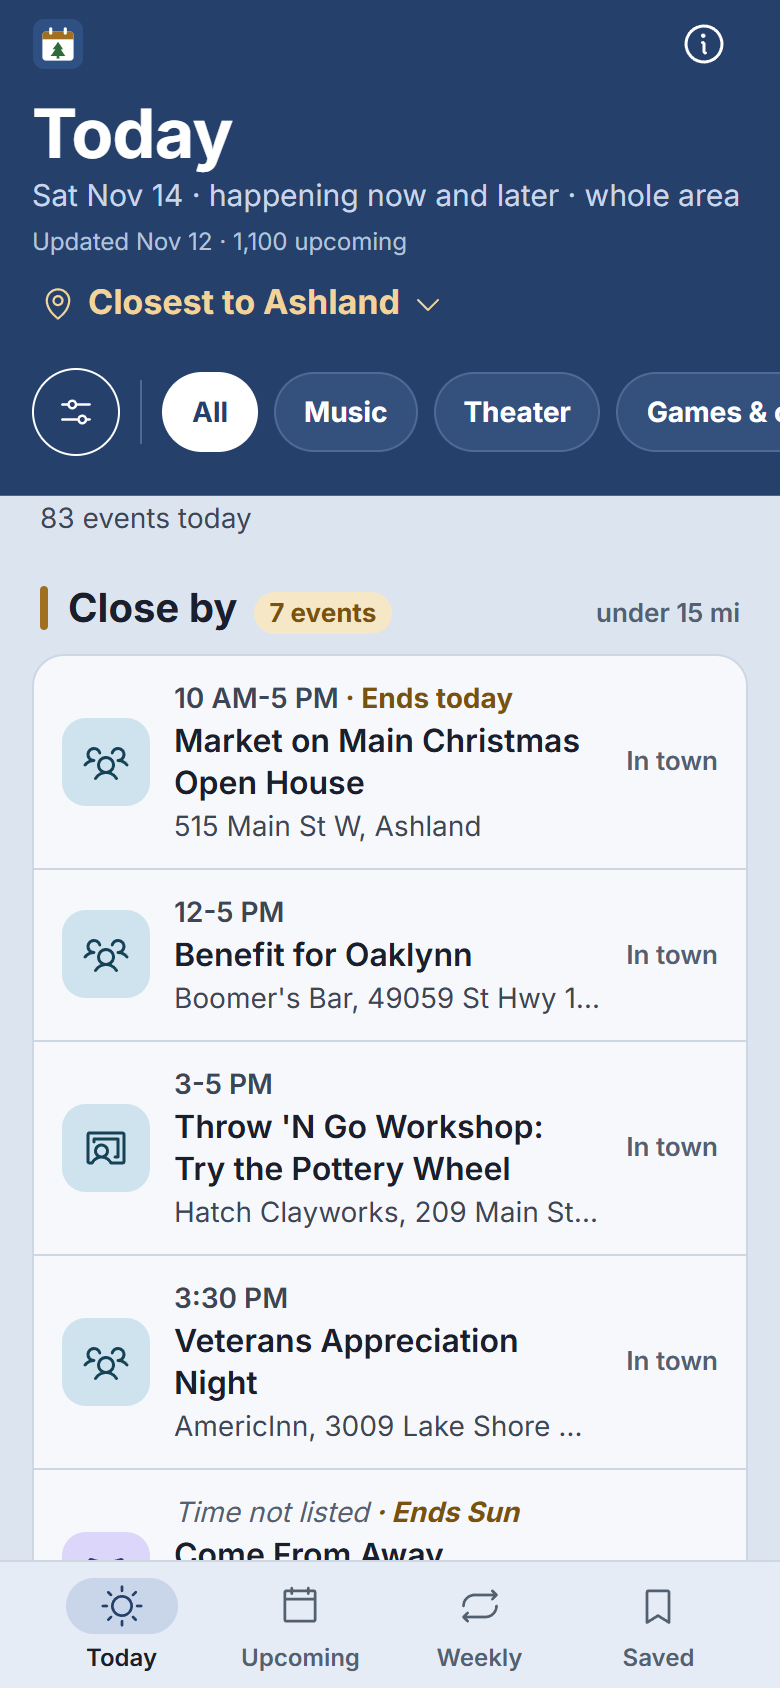
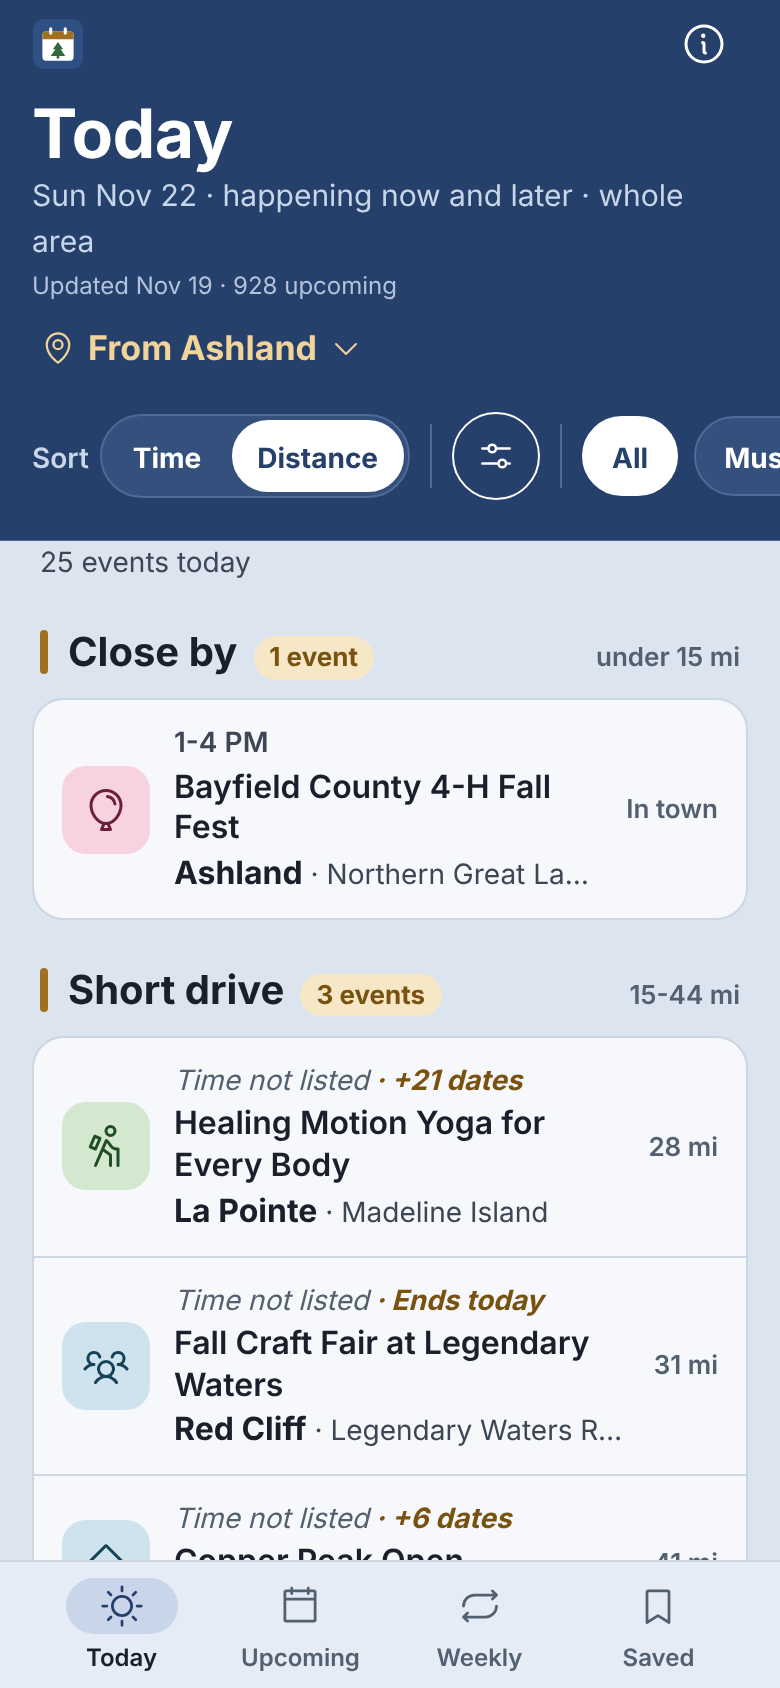
Larger town on event cards; Time | Distance sort on Today and Upcoming (#47)
* Larger town on event cards; Time | Distance sort on Today and Upcoming

Event rows now lead line 2 with the town in 1rem bold, then the venue, so the ellipsis never cuts the town. A Sort switch (Time | Distance) sits under the home-town button on Today (default Distance; Time groups Morning / Afternoon / Evening / Time not listed) and Upcoming (default Time; Distance uses the existing nearest-town view). Today writes sort=time with an explicit mode=today; Upcoming keeps sort=place. The Nearest first applied chip is gone, since the switch shows the sort. Render side and CSS only; the data region, HOMES and DRIVE are unchanged.

Claude-Session: https://claude.ai/code/session_01ADwB2BXZvgDYdCHHKc5tso

* Move sort switch to the kind row; Today by Time leads with what is still on

Review fixes for #47. The Time | Distance switch is now a segmented control at the start of the kind-chip row, so the header is no taller than main and the page never scrolls sideways at large text sizes. Today by Time groups Happening now, then Morning / Afternoon / Evening for later starts, then Started earlier, then Time not listed. Upcoming by Distance shows the venue only under each town header. CLAUDE.md corrected and the duplicate Upcoming bullet merged. Manifest screenshots re-rendered.

Claude-Session: https://claude.ai/code/session_01ADwB2BXZvgDYdCHHKc5tso

diff --git a/index.html b/index.html
@@ -135,6 +135,12 @@ a{color:inherit}
 .ctx{display:inline-flex;align-items:center;gap:6px;min-height:44px;padding:0 4px;border:0;background:none;font-size:1.0625rem;font-weight:700;color:var(--band-link);cursor:pointer;text-align:left}
 .ctx svg{width:18px;height:18px}
 .ctx svg:last-child{width:16px;height:16px}
+/* sort switch (Today, Upcoming): a segmented Time | Distance at the start of the kind row; the row scrolls, so it never widens the page */
+.sortsw{flex:0 0 auto;display:inline-flex;align-items:center;gap:6px}
+.sortsw .lbl{font-size:.875rem;font-weight:600;color:var(--band-sub)}
+.seg{display:inline-flex;gap:2px;padding:2px;border:1px solid var(--band-line);border-radius:var(--r-pill);background:var(--band-chip)}
+.seg .chip{min-height:36px;padding:0 12px;border-color:transparent;background:none}
+.seg .chip[aria-pressed="true"]{background:var(--on-band);border-color:var(--on-band);color:var(--band)}
 .srch{display:flex;align-items:center;gap:8px;min-height:44px;padding:0 12px;margin-top:6px;background:var(--band-field);border:1px solid var(--band-field-line);border-radius:var(--r-md);box-shadow:0 0 0 100vmax var(--band);clip-path:inset(-8px -100vmax)}
 .srch svg{width:18px;height:18px;color:var(--on-surface-variant)}
 .srch input{flex:1 1 auto;min-width:0;min-height:42px;border:0;outline:0;background:none;font-size:max(16px,1rem)}
@@ -200,6 +206,7 @@ a{color:inherit}
 .t1.un{font-style:italic;font-weight:400;color:var(--on-surface-variant)}
 .ev .t{display:-webkit-box;-webkit-line-clamp:2;-webkit-box-orient:vertical;overflow:hidden;font-size:1rem;font-weight:600;line-height:1.3;color:var(--on-surface);overflow-wrap:anywhere}
 .ev .meta2{font-size:.875rem;line-height:1.3;color:var(--on-surface-muted);white-space:nowrap;overflow:hidden;text-overflow:ellipsis}
+.ev .twn{font-size:1rem;font-weight:700;color:var(--on-surface)}
 .ev .nt{display:-webkit-box;-webkit-line-clamp:2;-webkit-box-orient:vertical;overflow:hidden;font-size:.8125rem;line-height:1.3;color:var(--on-surface-variant);overflow-wrap:anywhere}
 .ev .mi{flex:0 0 auto;max-width:5.5em;text-align:right;font-size:.8125rem;font-weight:600;color:var(--on-surface-variant)}
 .fam-music{background:var(--fam-music);color:var(--on-fam-music)}
@@ -2056,7 +2063,7 @@ const WHENS=[["today","Today"],["weekend","This weekend"],["7","Next 7 days"],["
 const WHEN=Object.fromEntries(WHENS);
 const DISTS=[25,60,120,250];
 const own=(o,k)=>k!=null&&Object.prototype.hasOwnProperty.call(o,k);
-// URL keys: mode (Today is the default and is left out; mode=tonight is an old alias for it), day (Weekly), sort, when, cat, dist, town, q (Upcoming), ev. Defaults are left out.
+// URL keys: mode (Today is the default and is left out; mode=tonight is an old alias for it), day (Weekly), sort (Today: time; Upcoming: place), when, cat, dist, town, q (Upcoming), ev. Defaults are left out.
 // Never "from": a shared My location link would ask for location on load.
 // Categories: S.cat holds the ticked ones as one string (CATMETA order, newline-joined), so views compare as values.
 const CATORDER=Object.keys(CATMETA);
@@ -2079,13 +2086,13 @@ function readURL(search){
   // No mode = Today (mode=tonight is read as today). An old link (no mode, but any of when / sort / cat / dist / town / q) opens Upcoming with those applied.
   const legacy=!MODES.includes(md)&&LEGACY.some(k=>p.has(k));
   const mode=MODES.includes(md)?md:legacy?"upcoming":"today";
-  return {mode,sort:p.get("sort")==="place"?"place":"date",when:own(WHEN,w)||isDate(w)?w:(legacy?"7":"all"),
+  return {mode,sort:p.get("sort")==="place"?"place":"date",tsort:mode==="today"&&p.get("sort")==="time"?"time":"place",when:own(WHEN,w)||isDate(w)?w:(legacy?"7":"all"),
     cat:catKey(p.getAll("cat").filter(c=>own(CATMETA,c)&&(MB||c!=="My Bands"))),dist:DISTS.includes(d)?d:0,town:own(TOWNS,tn)?tn:"",q:(p.get("q")||"").trim(),
     day:WD.includes(dy)||dy==="Other"?dy:"",ev:p.get("ev")||""};
 }
 const U0=readURL(location.search);
 // q: lower-cased for matching; qt: the text as typed, for the URL and the search box.
-const S={mode:U0.mode,sort:U0.sort,when:U0.when,cat:U0.cat,dist:U0.dist,town:U0.town,q:U0.q.toLowerCase(),qt:U0.q,day:U0.day};
+const S={mode:U0.mode,sort:U0.sort,tsort:U0.tsort,when:U0.when,cat:U0.cat,dist:U0.dist,town:U0.town,q:U0.q.toLowerCase(),qt:U0.q,day:U0.day};
 const byPlace=()=>S.sort==="place";
 function range(){
   if(isDate(S.when)){const d=pd(S.when);return[d,d];}
@@ -2171,23 +2178,27 @@ function noteFor(e,d){
   if(e.end&&e.end!==e.start){const a=pd(e.start),b=lastDay(e);return Math.round((b-a)/864e5)<=6?`${DOW[a.getDay()]}-${DOW[b.getDay()]}`:thru(b);}
   return "";
 }
-// --- the row: category tile, time (bold primary) or italic "Time not listed", title (2 lines), "venue, town", drive miles on the right ---
+// --- the row: category tile, time (bold primary) or italic "Time not listed", title (2 lines), "Town · venue", drive miles on the right ---
 const t1HTML=(time,extra,id)=>{const x=extra?`<span class="x"> · ${esc(extra)}</span>`:"";return time?`<span class="t1" id="${id}">${esc(time)}${x}</span>`:`<span class="t1 un" id="${id}">Time not listed${x}</span>`;};
 const plainT1=(txt,id)=>`<span class="t1" id="${id}">${esc(txt)}</span>`;
-function whereText(o){
-  if(!o.town)return o.place||"";
-  const v=venue(o),t=townName(o);return v?`${v}, ${t}`:t;
+// Line 2: the town (larger, bold) first, then the venue, so at normal text size the ellipsis cuts the venue, not the town.
+// underTown: the row sits under a header that already names its town (Upcoming by Distance), so show the venue only
+// (nothing, when the place is just the town).
+function whereHTML(o,underTown){
+  if(!o.town)return esc(o.place||"");
+  const v=venue(o);if(underTown)return esc(v);
+  return `<span class="twn">${esc(townName(o))}</span>${v?` · ${esc(v)}`:""}`;
 }
 // One row button; its name reads time, title, place, distance.
-function evRow(o,id,t1,note){
+function evRow(o,id,t1,note,underTown){
   const mi=distPiece(o);
   const lab=[id+"-1",id+"-t",id+"-m",mi&&id+"-d"].filter(Boolean).join(" ");
-  return `<button type="button" class="ev" data-ev="${id}" aria-haspopup="dialog" aria-labelledby="${lab}">${iconTile(o.cat)}<span class="body">${t1}<span class="t" id="${id}-t">${esc(o.title)}</span><span class="meta2" id="${id}-m">${esc(whereText(o))}</span>${note?`<span class="nt">${esc(note)}</span>`:""}</span>${mi?`<span class="mi" id="${id}-d">${esc(mi)}</span>`:""}</button>`;
+  return `<button type="button" class="ev" data-ev="${id}" aria-haspopup="dialog" aria-labelledby="${lab}">${iconTile(o.cat)}<span class="body">${t1}<span class="t" id="${id}-t">${esc(o.title)}</span><span class="meta2" id="${id}-m">${whereHTML(o,underTown)}</span>${note?`<span class="nt">${esc(note)}</span>`:""}</span>${mi?`<span class="mi" id="${id}-d">${esc(mi)}</span>`:""}</button>`;
 }
 // ctx: "date" (day groups) or "near" (under a town header: date first)
 function row(e,d,ctx){
   const id=IDOF.get(e);
-  if(ctx==="near")return evRow(e,id,plainT1([isOngoing(e)?"Ongoing":shortD(d),timeOf(e)].filter(Boolean).join(" · "),id+"-1"));
+  if(ctx==="near")return evRow(e,id,plainT1([isOngoing(e)?"Ongoing":shortD(d),timeOf(e)].filter(Boolean).join(" · "),id+"-1"),"",true);
   return evRow(e,id,t1HTML(timeOf(e),noteFor(e,d),id+"-1"));
 }
 const rowRun=e=>{const id=IDOF.get(e),t=timeOf(e);return evRow(e,id,plainT1(thru(lastDay(e))+(t?` · ${t} daily`:""),id+"-1"));};
@@ -2221,6 +2232,22 @@ function viewToday(list){
   const arr=list.map(e=>({e,m:miOf(e)})).sort((a,b)=>(a.m??9999)-(b.m??9999)||tMin(a.e)-tMin(b.e)||a.e.title.localeCompare(b.e.title));
   return {pre:"",items:arr,ongoing:0,key:x=>bandOf(x.m),label:x=>BANDS[bandOf(x.m)][0],sub:x=>BANDS[bandOf(x.m)][1],row:x=>row(x.e,today,"date")};
 }
+// Today sorted by time, so what a reader can still get to comes first:
+// 0 Happening now - started, and its end time is still ahead (todayOk already dropped any that ended);
+// 1-3 Morning / Afternoon / Evening - starts later today, soonest first;
+// 4 Started earlier - a start-only time already past: the source gives no end, so it may be over (latest start first);
+// 5 Time not listed. Nearest first within a start time.
+const TGROUPS=[["Happening now","started, still on"],["Morning","starts before noon"],["Afternoon","starts noon to 5 pm"],["Evening","starts 5 pm or later"],["Started earlier","no end time listed"],["Time not listed",""]];
+function tGroup(e){
+  const t=parseTime(e.time);if(!t)return 5;
+  const a=t.a[0]*60+t.a[1];
+  if(a>NOWMIN)return a<720?1:a<1020?2:3;
+  return t.b?0:4;
+}
+function viewTodayTime(list){
+  const arr=list.map(e=>({e,g:tGroup(e),t:tMin(e),m:miOf(e)})).sort((a,b)=>a.g-b.g||(a.g===4?b.t-a.t:a.t-b.t)||(a.m??9999)-(b.m??9999)||a.e.title.localeCompare(b.e.title));
+  return {pre:"",items:arr,ongoing:0,key:x=>x.g,label:x=>TGROUPS[x.g][0],sub:x=>TGROUPS[x.g][1],row:x=>row(x.e,today,"date")};
+}
 const weeklyTodayN=()=>weeklyList(DOW[today.getDay()],false).length;
 
 // --- Upcoming: from today on, a day list; runs over 14 days that are still going wait in "Running now" ---
@@ -2236,7 +2263,7 @@ function viewUp(list){
     label:x=>{const n=daysFrom(x.d);return n===0?"Today":n===1?"Tomorrow":DOWF[x.d.getDay()];},
     sub:x=>`${DOW[x.d.getDay()]}, ${MON[x.d.getMonth()]} ${x.d.getDate()}`};
 }
-// old ?sort=place links: nearest town first
+// Upcoming sorted by distance (sort=place): nearest town first
 function viewPlace(list){
   const r=range();
   const arr=list.map(e=>({e,d:firstIn(e,r)})).sort((a,b)=>(miOf(a.e)??9999)-(miOf(b.e)??9999)||(a.e.town||"~").localeCompare(b.e.town||"~")||(isOngoing(a.e)?1:0)-(isOngoing(b.e)?1:0)||a.d-b.d);
@@ -2263,10 +2290,14 @@ function groupsHTML(items){
 
 // --- head: large title, subtitle, context buttons, search, kind row, date strip / weekday chips ---
 const TITLES={today:"Today",upcoming:"Upcoming",weekly:"Weekly",saved:"Saved"};
+// Sort switch: Today defaults to Distance (tsort), Upcoming to Time (sort).
+const nearOn=()=>S.mode==="today"?S.tsort==="place":byPlace();
+const sortSw=()=>{const n=nearOn();return `<span class="sortsw" role="group" aria-label="Sort by"><span class="lbl" aria-hidden="true">Sort</span><span class="seg"><button class="chip" type="button" data-sort="time" aria-pressed="${!n}">Time</button><button class="chip" type="button" data-sort="near" aria-pressed="${n}">Distance</button></span></span><span class="vsep" aria-hidden="true"></span>`;};
+function setSort(near){if(S.mode==="today")refine({tsort:near?"place":"time"});else refine({sort:near?"place":"date"});}
 const ctxBtn=(open,ic,label)=>`<button class="ctx" type="button" data-open="${open}" aria-haspopup="dialog">${icon(ic)}${esc(label)}${icon("caret-down")}</button>`;
 function kindChips(){
   const gs=kgroups(),n=gs.filter(kon).length;
-  return `<button class="fbtn" type="button" data-open="kinds" aria-haspopup="dialog" aria-label="Filter by kind of event" aria-pressed="${n>0}">${icon("sliders-horizontal")}${n?`<span class="fbadge" aria-hidden="true">${n}</span>`:""}</button><span class="vsep" aria-hidden="true"></span>`+
+  return sortSw()+`<button class="fbtn" type="button" data-open="kinds" aria-haspopup="dialog" aria-label="Filter by kind of event" aria-pressed="${n>0}">${icon("sliders-horizontal")}${n?`<span class="fbadge" aria-hidden="true">${n}</span>`:""}</button><span class="vsep" aria-hidden="true"></span>`+
     `<button class="chip" type="button" data-gall aria-pressed="${n===0}">All</button>`+gs.map(g=>`<button class="chip" type="button" data-grp="${esc(g.n)}" aria-pressed="${kon(g)}">${esc(g.n)}</button>`).join("");
 }
 const STRIPN=14;
@@ -2282,7 +2313,7 @@ const stripWk=()=>[...WD,"Other"].map(d=>`<button class="chip" type="button" dat
 function put(el,html){if(el._h===html)return false;el._h=html;el.innerHTML=html;return true;}
 function fkey(el){
   if(!el||!el.closest)return null;const c=el.closest("#kinds,#strip,#ctxrow");if(!c)return null;
-  for(const k of ["grp","gall","open","wd","day"])if(el.dataset[k]!==undefined)return `#${c.id} [data-${k.replace(/[A-Z]/g,m=>"-"+m.toLowerCase())}${el.dataset[k]===""?"":`="${CSS.escape(el.dataset[k])}"`}]`;
+  for(const k of ["grp","gall","open","wd","day","sort"])if(el.dataset[k]!==undefined)return `#${c.id} [data-${k.replace(/[A-Z]/g,m=>"-"+m.toLowerCase())}${el.dataset[k]===""?"":`="${CSS.escape(el.dataset[k])}"`}]`;
   return null;
 }
 function renderHead(){
@@ -2291,7 +2322,7 @@ function renderHead(){
   const rl=regionLabel();
   $("#subl").textContent=m==="today"?`${shortD(today)} · happening now and later · whole area`:m==="upcoming"?`${shortD(today)} and later · ${rl}`:m==="weekly"?`Repeating events · ${rl}`:"Saved on this device";
   const hn=homeName(HOME||FALLBACK_HOME);
-  put($("#ctxrow"),m==="today"?ctxBtn("home","map-pin",`Closest to ${hn}`):m==="upcoming"?ctxBtn("regions","map-trifold",rl)+ctxBtn("home","map-pin",`From ${hn}`):m==="weekly"?ctxBtn("regions","map-trifold",rl):"");
+  put($("#ctxrow"),m==="today"?ctxBtn("home","map-pin",`From ${hn}`):m==="upcoming"?ctxBtn("regions","map-trifold",rl)+ctxBtn("home","map-pin",`From ${hn}`):m==="weekly"?ctxBtn("regions","map-trifold",rl):"");
   $("#srchWrap").hidden=m!=="upcoming";
   const kd=$("#kinds");kd.hidden=!(m==="today"||m==="upcoming");if(!kd.hidden)put(kd,kindChips());
   const sp=$("#strip"),dated=m==="upcoming"&&!byPlace();sp.hidden=!(dated||m==="weekly");
@@ -2339,7 +2370,7 @@ function render(opts){
   document.documentElement.dataset.view=S.mode;setTabs(S.mode);const gen=++GEN;
   renderHead();renderApplied();
   if(S.mode==="saved"){renderSaved();return gen;}
-  V=S.mode==="today"?viewToday(todayList()):S.mode==="weekly"?viewWeekly():byPlace()?viewPlace(poolUp()):viewUp(poolUp());
+  V=S.mode==="today"?(S.tsort==="time"?viewTodayTime:viewToday)(todayList()):S.mode==="weekly"?viewWeekly():byPlace()?viewPlace(poolUp()):viewUp(poolUp());
   // group counts come from the full list, so a header is right before its rows arrive
   V.count={};V.items.forEach(x=>{const k=V.key(x);V.count[k]=(V.count[k]||0)+1;});
   V.shown=Math.min(FIRST,V.items.length);
@@ -2473,6 +2504,7 @@ document.addEventListener("click",ev=>{
   if(b.hasAttribute("data-golink")){const d=DOW[today.getDay()];if(go({mode:"weekly",day:d}))withTabTransition(o=>{const g=render({...o,keep:true});scrollTo(0,0);return g;});return;}
   if(b.dataset.grp!==undefined){toggleGroup(b.dataset.grp);renderHead();renderSoon();return;}
   if(b.hasAttribute("data-gall")){refine({cat:""});renderHead();renderSoon();return;}
+  if(b.dataset.sort){setSort(b.dataset.sort==="near");renderHead();renderSoon();return;}
   if(b.dataset.wd){refine({day:b.dataset.wd===DOW[today.getDay()]?"":b.dataset.wd});renderHead();renderSoon();return;}
   if(b.classList.contains("day")&&b.dataset.day){jumpToDay(b.dataset.day);return;}
 });
@@ -2538,10 +2570,10 @@ function armMidnight(){const n=new Date(),m=new Date(n.getFullYear(),n.getMonth(
 armMidnight();
 
 // --- history: go() pushes destinations, refine() replaces; render() only ever replaces ---
-const VIEWKEYS=["mode","sort","when","cat","dist","town","q","day"];
-const DEF={mode:"today",sort:"date",when:"all",cat:"",dist:0,town:"",q:"",day:""};
-// Which keys a view writes to the URL. Today writes cat only together with an explicit mode=today (urlFor): a bare cat= reads as an old link and opens Upcoming.
-const URLKEYS={today:["cat"],upcoming:["sort","when","cat","dist","town","q"],weekly:["day"],saved:[]};
+const VIEWKEYS=["mode","sort","tsort","when","cat","dist","town","q","day"];
+const DEF={mode:"today",sort:"date",tsort:"place",when:"all",cat:"",dist:0,town:"",q:"",day:""};
+// Which keys a view writes to the URL. Today writes cat and sort (from tsort) only together with an explicit mode=today (urlFor): a bare cat= or sort= reads as an old link and opens Upcoming.
+const URLKEYS={today:["cat","tsort"],upcoming:["sort","when","cat","dist","town","q"],weekly:["day"],saved:[]};
 // This page load's mark on the sheet entries it pushes, so a reload never history.back()s into another document.
 const PL=Date.now().toString(36)+Math.random().toString(36).slice(2,8);
 // OPEN: the open sheet, an event id or a SHEETS name. Only an event id goes in the URL; the sheets are marked in history.state.
@@ -2549,12 +2581,12 @@ let OPEN=null;
 const SHEETS=["about","kinds","regions","home"];
 const evOf=o=>o&&!SHEETS.includes(o)?o:"";
 try{history.scrollRestoration="manual";}catch(e){}
-const viewOf=()=>({mode:S.mode,sort:S.sort,when:S.when,cat:S.cat,dist:S.dist,town:S.town,q:S.qt,day:S.day});
+const viewOf=()=>({mode:S.mode,sort:S.sort,tsort:S.tsort,when:S.when,cat:S.cat,dist:S.dist,town:S.town,q:S.qt,day:S.day});
 function urlFor(v,ev){
   const u=new URLSearchParams();
-  if(v.mode!==DEF.mode||(v.mode==="today"&&v.cat))u.set("mode",v.mode);
+  if(v.mode!==DEF.mode||(v.mode==="today"&&(v.cat||v.tsort!==DEF.tsort)))u.set("mode",v.mode);
   // categories as repeated keys: cat=Concert&cat=Festival
-  (URLKEYS[v.mode]||[]).forEach(k=>{if(k==="cat"){if(v.cat)v.cat.split("\n").forEach(c=>u.append("cat",c));}else if(v[k]!==DEF[k])u.set(k,v[k]);});
+  (URLKEYS[v.mode]||[]).forEach(k=>{if(k==="cat"){if(v.cat)v.cat.split("\n").forEach(c=>u.append("cat",c));}else if(k==="tsort"){if(v.tsort!==DEF.tsort)u.set("sort",v.tsort);}else if(v[k]!==DEF[k])u.set(k,v[k]);});
   if(ev)u.set("ev",ev);
   const qs=u.toString();return location.pathname+(qs?"?"+qs:"");
 }
@@ -2564,7 +2596,7 @@ function replaceURL(){
   const c=curState();
   try{history.replaceState({...viewOf(),open:OPEN||"",y:typeof c.y==="number"?c.y:0,sheet:OPEN?c.sheet||"":""},"",urlFor(viewOf(),evOf(OPEN)));}catch(e){}
 }
-function applyView(v){S.mode=v.mode;S.sort=v.sort;S.when=v.when;S.cat=v.cat;S.dist=v.dist;S.town=v.town||"";S.qt=v.q;S.q=v.q.toLowerCase();S.day=v.day||"";}
+function applyView(v){S.mode=v.mode;S.sort=v.sort;S.tsort=v.tsort||"place";S.when=v.when;S.cat=v.cat;S.dist=v.dist;S.town=v.town||"";S.qt=v.q;S.q=v.q.toLowerCase();S.day=v.day||"";}
 // Destinations: call from a tap or key handler only (Chrome skips entries pushed without a user gesture).
 function go(patch){
   const cur={...viewOf(),open:OPEN||""},next={...cur,...patch};
@@ -2578,7 +2610,7 @@ function go(patch){
 function refine(patch){if("q" in patch){S.qt=patch.q;S.q=patch.q.toLowerCase();delete patch.q;}Object.assign(S,patch);}
 addEventListener("pagehide",()=>{try{history.replaceState({...curState(),y:scrollY},"");}catch(e){}});
 addEventListener("popstate",e=>{
-  const st=e.state&&typeof e.state==="object"&&e.state.mode?{day:"",...e.state}:{...readURL(location.search),y:null};
+  const st=e.state&&typeof e.state==="object"&&e.state.mode?{day:"",tsort:"place",...e.state}:{...readURL(location.search),y:null};
   // our own step back after a sheet that leaves a change to apply: keep it on this entry
   if(pendingApply&&!OPEN){flushApply();return;}
   const want=st.open||st.ev||"",ua=!!e.hasUAVisualTransition;
@@ -2829,7 +2861,6 @@ function appliedList(){
   if(S.when!=="all")a.push(["when",isDate(S.when)?dayLabel2(S.when):WHEN[S.when]]);
   if(S.dist&&HOME)a.push(["dist",`Within ${S.dist} mi of ${homeName(HOME)}`]);
   if(S.town)a.push(["town",`In ${homeName(S.town)}`]);
-  if(byPlace())a.push(["sort","Nearest first"]);
   return a;
 }
 const XICON=icon("x");
@@ -2837,8 +2868,8 @@ function renderApplied(){
   const a=appliedList(),el=$("#applied");el.hidden=!a.length;
   put(el,a.map(([k,l])=>`<button type="button" class="achip" data-rm="${esc(k)}" aria-label="Remove ${esc(l)}"><span>${esc(l)}</span>${XICON}</button>`).join("")+(a.length?`<button type="button" class="aclear" data-rm="all">Clear all</button>`:""));
 }
-// Clear all: date range, distance, town and nearest-first. Search, kinds and regions stay.
-function clearApplied(){S.when="all";S.dist=0;S.town="";S.sort="date";}
+// Clear all: date range, distance and town. Search, kinds, regions and the sort switch stay.
+function clearApplied(){S.when="all";S.dist=0;S.town="";}
 function clearAll(){clearApplied();S.cat="";render();}
 function removeApplied(k){
   const idx=[...document.querySelectorAll("#applied [data-rm]")].findIndex(x=>x.dataset.rm===k);
@@ -2846,7 +2877,6 @@ function removeApplied(k){
   else if(k==="dist")S.dist=0;
   else if(k==="when")S.when="all";
   else if(k==="town")S.town="";
-  else if(k==="sort")S.sort="date";
   render();
   // focus the chip that took this one's place, else the search box
   const rest=[...document.querySelectorAll("#applied [data-rm]")];

diff --git a/CLAUDE.md b/CLAUDE.md
@@ -83,7 +83,8 @@ For what used to be one big "Local" bucket:
 ### The four tabs (render side)
 Bottom tabs on a phone, a left rail at 960px and wider: **Today, Upcoming, Weekly, Saved**. "Today" is
 America/Chicago everywhere in the app. (The first tab was "Tonight" until 2026-11-14; its sun icon replaced the moon.)
-- **Today** covers the whole area (no region filter), sorted by drive miles from the home town (Ashland
+- **Today** covers the whole area (no region filter). A Sort switch (Time | Distance) sits at the start of the kind
+  row on Today and Upcoming. Today defaults to Distance: drive miles from the home town (Ashland
   when none is set), then by time, in bands: Close by (<15 mi), Short drive (15-44), Worth the drive
   (45-89), Farther (90+), Distance unknown. It is every event happening today that has not ended:
   - a single-day event with an end time drops off once that end time passes (an end earlier than the start
@@ -92,11 +93,15 @@ America/Chicago everywhere in the app. (The first tab was "Tonight" until 2026-1
   - a `dates[]` event with today in `dates`;
   - a continuous run of 14 days or less that covers today (daily hours on a run end it for the day the same way).
   Runs over 14 days are not on Today; they sit in Upcoming's collapsed "Running now" list.
-- **Upcoming** is the day list from today on, with a sticky date strip, search (`q`), the kind filter and
+  Sorted by Time, Today puts what a reader can still get to first: Happening now (started, end time still ahead),
+  then Morning / Afternoon / Evening for starts later today, then Started earlier (a start-only time already past;
+  the source gives no end, so it may be over), then Time not listed. Nearest first within a start time.
+- **Upcoming** defaults to Time: the day list from today on, with a sticky date strip, search (`q`), the kind filter and
   Regions. Core regions are on by default: Chequamegon Bay, Duluth / Superior, Hurley / Iron County,
   Northwoods, Wider Northwoods, Hayward (including "Hayward / Sawyer County"), Western U.P. Every other
   region is under "Farther away" and off until turned on. The choice is saved in `ev_regions` and also
   applies to Weekly. Only the default is code: a saved `ev_regions` is never migrated or overwritten.
+  Sorted by Distance it groups by town, nearest first, hides the date strip, and each row shows the venue only.
 - **Weekly** has day chips Mon-Sun plus Other (Monthly, Season, Varies...). It ignores `q` and the kind
   filter; Regions apply.
 - **Saved** is the reader's saved list.
@@ -110,6 +115,8 @@ Light surfaces are blue-grey (page `#DCE4EF`, cards `#F6F8FB`); a navy header ba
 `--band-*` and the tab-bar tokens live in the two `:root` blocks; a new text/background pair needs 4.5:1 (icons
 and borders 3:1) in both themes. Dark `--on-primary-container` is `#D6E3F7`, so components use the token
 and need no per-component white patch.
+Event rows: line 2 is the town (`.twn`, 1rem bold) then ` · venue`. Town first, so at normal text size the ellipsis
+cuts the venue; at very large text sizes a long town name can still be cut. Under a town header only the venue shows.
 
 ### Render-side changes: the invariant
 Any future render-side change must leave these byte-identical to `main`: the data region (from
@@ -130,7 +137,7 @@ Check with `git diff main -- index.html` that no hunk falls inside the data regi
     `?mode=tonight...` links keep loading and are rewritten to `mode=today`.
   - Old-link rule: no `mode` plus any of `when`, `sort`, `cat`, `dist`, `town`, `q` opens Upcoming with
     those applied. An old link with no `when` keeps the 7-day window it implied (a removable applied chip).
-  - Which keys each tab writes: Today `cat`; Upcoming `sort`, `when`, `cat`, `dist`, `town`, `q`;
+  - Which keys each tab writes: Today `cat` and `sort=time` (both only with an explicit `mode=today`); Upcoming `sort=place`, `when`, `cat`, `dist`, `town`, `q`;
     Weekly `day`; Saved none. `ev` opens the event sheet on any tab.
 - **My Bands is hidden by default** on the public app: gone from lists, counts, Filters, search and `cat=`
   links until a reader turns on "Show My Bands" in About. A direct `?ev=` link still opens. The scan still
